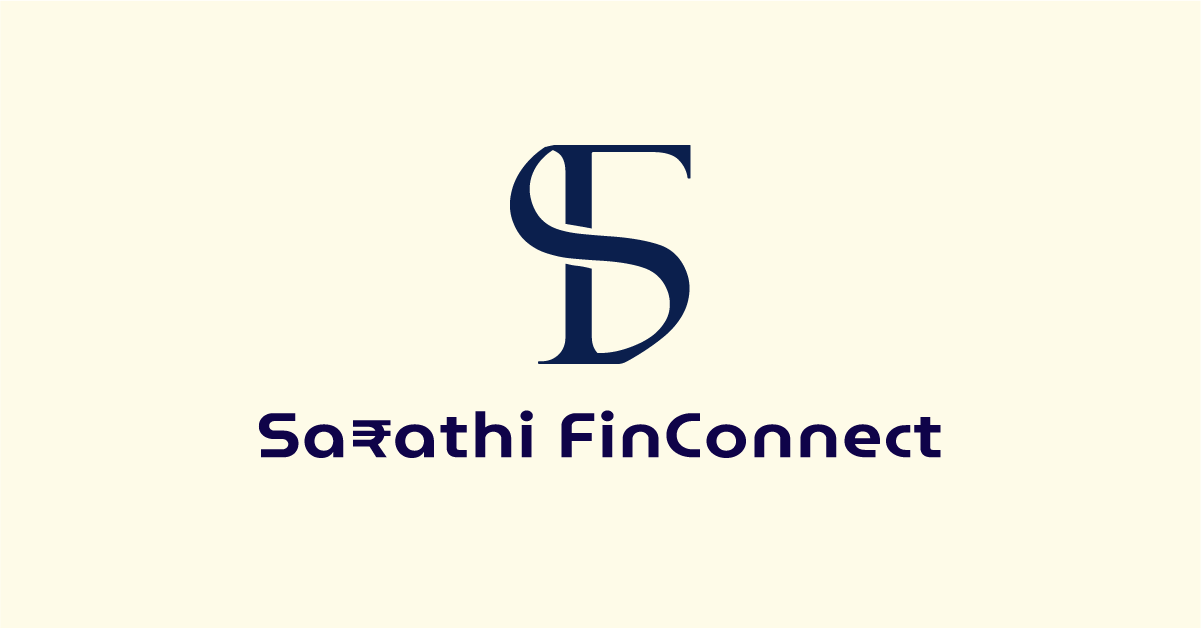
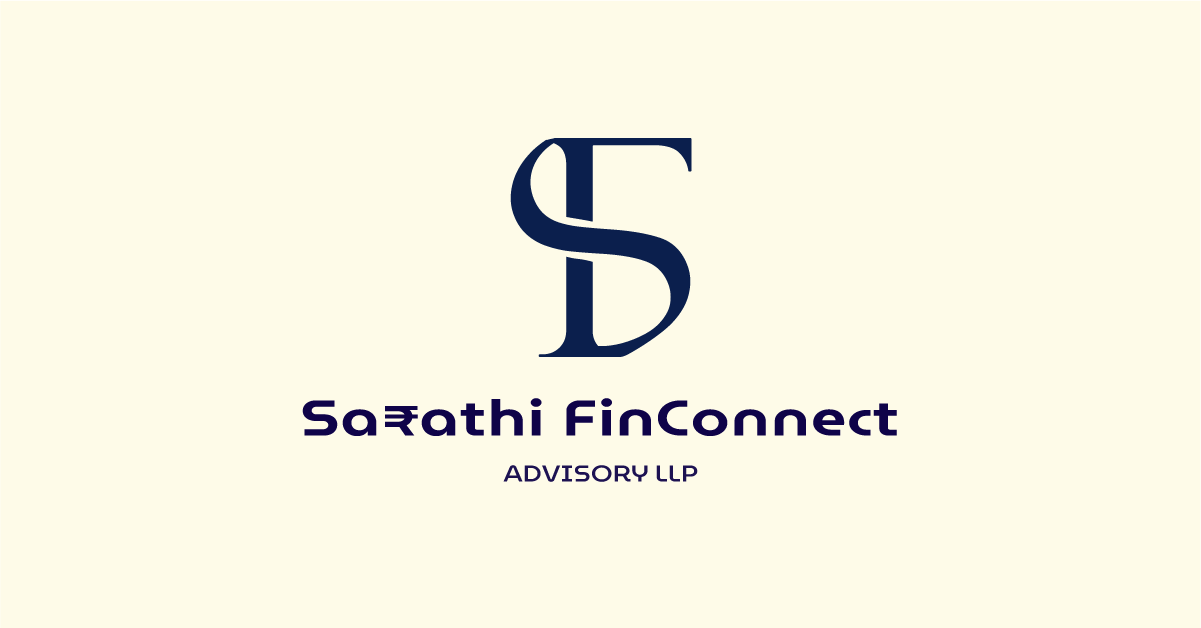
name to advisory llp

diff --git a/index.html b/index.html
@@ -6,12 +6,10 @@
   <meta name="viewport" content="width=device-width, initial-scale=1.0" />
 
   <!-- Primary SEO -->
-  <title>
-    Sarathi FinConnect LLP | Financial Services & Loan Solutions
-  </title>
+  <title>Sarathi FinConnect Advisory LLP | Financial Services & Loans</title>
 
   <meta name="description"
-    content="Sarathi FinConnect LLP helps individuals and businesses explore suitable financial services and loan solutions with clear guidance and support." />
+    content="Sarathi FinConnect Advisory LLP helps individuals and businesses explore suitable financial services and loan solutions with clear guidance and support." />
 
   <meta name="robots" content="index, follow" />
 
@@ -25,28 +23,41 @@
   <meta property="og:type" content="website" />
   <meta property="og:site_name" content="Sarathi FinConnect" />
 
-  <meta property="og:title" content="Sarathi FinConnect LLP | Financial Services & Loan Solutions" />
+  <meta property="og:title" content="Sarathi FinConnect Advisory LLP | Financial Services & Loans" />
 
   <meta property="og:description"
-    content="Explore financial services and loan solutions with guidance from Sarathi FinConnect LLP." />
+    content="Explore financial services and loan solutions with guidance from Sarathi FinConnect Advisory LLP." />
 
   <meta property="og:url" content="https://sarathi-finconnect.vercel.app/" />
 
   <meta property="og:image" content="https://sarathi-finconnect.vercel.app/og-image.png" />
 
-  <meta property="og:image:alt" content="Sarathi FinConnect LLP — Financial Services & Loan Solutions" />
+  <meta property="og:image:alt" content="Sarathi FinConnect Advisory LLP — Financial Services & Loan Solutions" />
 
   <meta property="og:locale" content="en_IN" />
 
   <!-- Twitter / X -->
   <meta name="twitter:card" content="summary_large_image" />
 
-  <meta name="twitter:title" content="Sarathi FinConnect LLP | Financial Services & Loan Solutions" />
+  <meta name="twitter:title" content="Sarathi FinConnect Advisory LLP | Financial Services & Loans" />
 
   <meta name="twitter:description"
-    content="Explore financial services and loan solutions with guidance from Sarathi FinConnect LLP." />
+    content="Explore financial services and loan solutions with guidance from Sarathi FinConnect Advisory LLP." />
 
   <meta name="twitter:image" content="https://sarathi-finconnect.vercel.app/og-image.png" />
+
+  <!-- Structured Data (JSON-LD) -->
+  <script type="application/ld+json">
+  {
+    "@context": "https://schema.org",
+    "@type": "FinancialService",
+    "name": "Sarathi FinConnect",
+    "legalName": "Sarathi FinConnect Advisory LLP",
+    "url": "https://sarathi-finconnect.vercel.app/",
+    "logo": "https://sarathi-finconnect.vercel.app/logo.png",
+    "areaServed": "IN"
+  }
+  </script>
 
   <!-- Favicon -->
   <link rel="icon" type="image/png" href="/favicons/favicon-96x96.png" sizes="96x96" />
